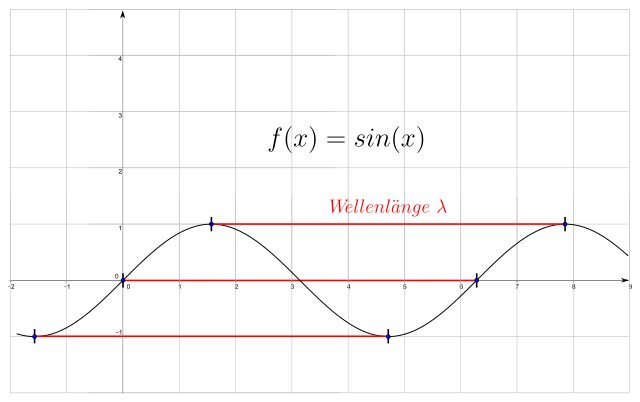
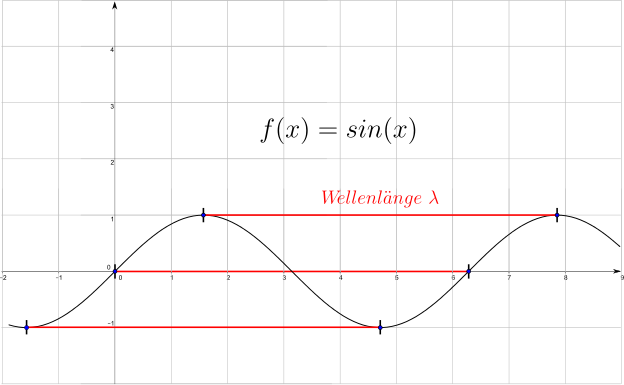
Inhaltsanpassungen, Gendern, Sinus Grafik mit weißem HG und mittig

diff --git a/_chapters_de/02_04_02_01.md b/_chapters_de/02_04_02_01.md
@@ -7,10 +7,12 @@ Auf dem Physical Layer (Layer 1) nutzt WLAN die physikalischen Eigenschaften von
 
 Mathematisch kann man sich die Sinus-Welle vorstellen bei der die X-Achse die Ausbreitungsrichtung der Welle ist und die Y-Achse die Stärke des elektrischen (oder magnetischen) Feldes darstellt.
 
-<div enlarge-on-click class = "full-width" markdown="1">
-![](images/sinuswelle_wellenlaenge.png)
+<div style="text-align:center" markdown="1">
+![Sinuswelle zur Verdeutlichung von Wellenlänge](images/sinuswelle_wellenlaenge.png)
 </div>
+<div style="text-align:right">
 [By Johannes Schneider - Own work, CC BY-SA 4.0](https://commons.wikimedia.org/w/index.php?curid=41451964)
+</div>
 
 Die Welle bewegt sich dann mit Lichtgeschwindigkeit (oder je nach Materie etwas langsamer) nach rechts. Neben der Ausbreitungsgeschwindigkeit ist der Abstand zwischen zwei Wellenbergen eine wichtige Kennzahl von elektromagnetischen Wellen. Dieser wird als *Wellenlänge* bezeichnet und wird in Meter angegeben. Die damit zusammenhängende *Frequenz* gibt an wie viele Wellenlängen der Welle pro Sekunde einen Punkt passieren. Eine hohe Frequenz bedeutet also, dass der Wert an einem Punkt sehr stark oszilliert. Die Einheit für die Frequenz ist *Hertz* (Hz). WLAN wird heute vor allem im Bereich um 2.4 GHz und 5 GHz eingesetzt. Die Stärke des elektromagnetischen Feldes an einem Wellenberg bezeichnet man als *Amplitude*.
 

diff --git a/_chapters_de/06_06_00_00.md b/_chapters_de/06_06_00_00.md
@@ -5,6 +5,10 @@ number: "6.6"
 
 Anlässlich des Safer Internet Days 2016 haben die [Jungen Tüftler](http://junge-tueftler.de) ein analoges Spiel entwickelt, mit dem vor allem Kinder lernen, wie das Internet funktioniert.
 
-Die Materialen werden aktuell aufbereitet und in Kürze hier zur Verfügung gestellt.
+Die Materialen werden aktuell aufbereitet und in Kürze hier zur Verfügung gestellt. Bis dahin gibt es [hier mehr Informationen](http://junge-tueftler.de/project/internet-play-zum-safer-internet-day/) sowie eine Video über die Veranstaltung.
 
-Bis dahin gibt es [hier mehr Informationen](http://junge-tueftler.de/project/internet-play-zum-safer-internet-day/) sowie eine Video über die Veranstaltung.
+Dieses doch etwas betagte Video von der *Sendung mit der Maus* aus dem Jahre 1999 erklärt ebenso sehr anschaulich, wie das Internet und wie die Datenweiterleitung funktioniert. Auch wenn es nicht mehr ganz aktuell ist, kann es gerade bei jüngeren Workshop-Teilnehmer\*innen den Einstieg ins Thema erleichtern.
+
+<a href="http://www.youtube.com/watch?feature=player_embedded&v=Qy9XN8vT2vw
+" target="_blank"><img src="http://img.youtube.com/vi/Qy9XN8vT2vw/0.jpg" 
+alt="Die Sendung mit der Maus - Wie funktioniert das Internet" width="560" height="315" border="10" /></a>

diff --git a/_chapters_de/02_01_00_00.md b/_chapters_de/02_01_00_00.md
@@ -41,7 +41,9 @@ Dem Eigentümer steht es frei, die Richtlinie selber zu formulieren, so lange di
 5. **Lokale (individuelle) Zusätze**
 Hier können vom Eigentümer selbst Ergänzungen zur Vertragsvereinbarung vorgenommen werden.
 
-> **Tipp:** Das folgende Video der Freifunker\*innen bietet sich hervorragend als Einstiegsvideo an:
+**Tipp:** Das folgende Video der Freifunker\*innen bietet sich hervorragend als Einstiegsvideo an:
 
 <div style="padding:56.25% 0 0 0;position:relative;"><iframe src="https://player.vimeo.com/video/64814620" style="position:absolute;top:0;left:0;width:100%;height:100%;" frameborder="0" webkitallowfullscreen mozallowfullscreen allowfullscreen></iframe></div><script src="https://player.vimeo.com/api/player.js"></script>
-<p align="right">CC BY-SA 4.0 <a href="https://vimeo.com/64814620">Freifunk verbindet!</a> from <a href="https://vimeo.com/kosmonautensofa">Philipp Seefeldt</a> on <a href="https://vimeo.com">Vimeo</a>.</p>
+<div style="text-align:right">
+<p>CC BY-SA 4.0 <a href="https://vimeo.com/64814620">Freifunk verbindet!</a> from <a href="https://vimeo.com/kosmonautensofa">Philipp Seefeldt</a> on <a href="https://vimeo.com">Vimeo</a>.</p>
+</div>

diff --git a/_chapters_de/05_01_02_00.md b/_chapters_de/05_01_02_00.md
@@ -10,7 +10,7 @@ Sollten zur Stromversorgung neue Elektroinstallationen nötig werden, so müssen
  * [solarbetriebener Freifunkmast](https://wiki.freifunk.net/Freifunk-Mast)
  * [Solar-Router](https://wiki.freifunk.net/Solar-Router)
 
-Der Aufbau der Richtantenne auf dem Dach wird meist gesondert mit dem Vermieter besprochen, sofern eine Verbindung mit dem Backbone oder zu Gebäuden über das Dach geplant ist. Bei der Planung ist unbedingt mitzubeachten, dass die Installation bzw. der Mast idealerweise in den bestehen Brand- und Blitzschutz fallen oder diese ggf. von einem Fachunternehmen erweitert werden müssen.
+Der Aufbau der Richtantenne auf dem Dach wird meist gesondert mit dem Vermieter besprochen, sofern eine Verbindung mit dem Backbone oder zu Gebäuden über das Dach geplant ist. Bei der Planung ist unbedingt mit zu beachten, dass die Installation bzw. der Mast idealerweise in den bestehen Brand- und Blitzschutz fallen oder diese ggf. von einem Fachunternehmen erweitert werden müssen.
 
 
 

diff --git a/_chapters_de/06_07_00_00.md b/_chapters_de/06_07_00_00.md
@@ -1,10 +1,8 @@
 ---
-title: "Was ist das Internet?"
+title: "DIY (Bohren, Basteln, maken)"
 number: "6.7"
 ---
 
-Dieses doch etwas betagte Video von der Sendung mit der Maus aus dem Jahre 1999 erklärt sehr anschaulich, wie das Internet funktioniert und wie die Datenweiterleitung funktioniert. Auch wenn es nicht mehr ganz aktuell ist, kann es gerade bei jüngeren Kindern den Einstieg ins Thema erleichtern.
+Als letztes solll hier noch ein wichtiger Fakt Aufmerksamkeit bekommen. Auch nichttechnikaffine Jugendliche kann man nämlich hervorragend für ein Freifunkprojekt begeistern.
 
-<a href="http://www.youtube.com/watch?feature=player_embedded&v=Qy9XN8vT2vw
-" target="_blank"><img src="http://img.youtube.com/vi/Qy9XN8vT2vw/0.jpg" 
-alt="Die Sendung mit der Maus - Wie funktioniert das Internet" width="560" height="315" border="10" /></a>
+Inhalte folgen...
